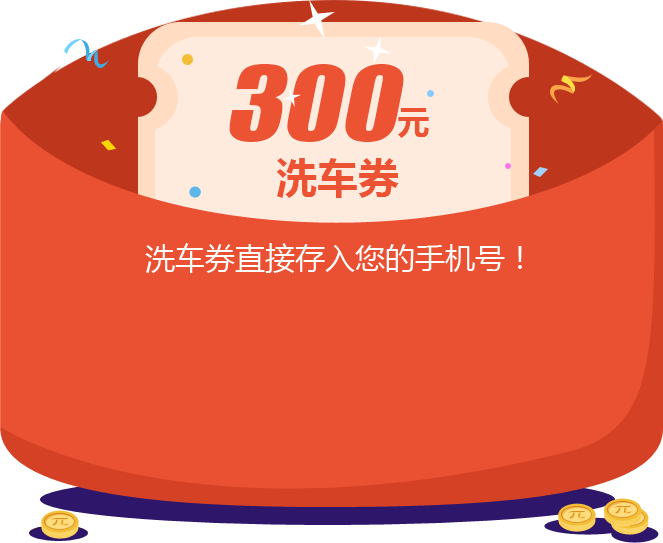
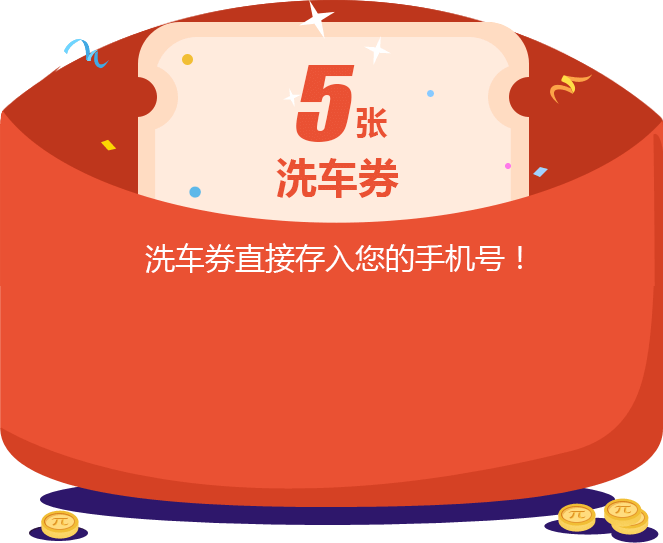
车点点文案修改

Changed region(s): [[0.3318, 0.1179, 0.6637, 0.2652], [0.9955, 0.2063, 1.0, 0.2357], [0.0603, 0.1179, 0.0905, 0.1473]]

diff --git a/activity/chediandian20161101/sass/index.scss b/activity/chediandian20161101/sass/index.scss
@@ -304,7 +304,6 @@ a {
                     margin: auto;
                     margin-top: pxToRem(66px);
                 }
-               
             }
             .md-footer {
                 width: 100%;
@@ -323,13 +322,38 @@ a {
             padding-bottom: pxToRem(26px);
             text-align: center;
             .label01 {
-                    font-size: pxToRem(20px);
-                    line-height: pxToRem(26px);
-                    text-align: center;
+                font-size: pxToRem(20px);
+                line-height: pxToRem(26px);
+                text-align: center;
             }
             .label02 {
                 margin-top: pxToRem(26px);
                 font-size: pxToRem(18px);
+            }
+        }
+    }
+    .ad-wrapper {
+        position: fixed;
+        bottom: 0;
+        left: 0;
+        z-index: 999;
+        .icon-close {
+            width: pxToRem(50px);
+            height: pxToRem(50px);
+            background-size: contain;
+            background-repeat: no-repeat;
+            background-image: url("../images/icon-close.png");
+            position: absolute;
+            right: pxToRem(30px);
+            top: pxToRem(-44px);
+            z-index: 99;
+
+        }
+        .ad {
+            width: 100%;
+            img {
+                width: 100%;
+                display: block;
             }
         }
     }

diff --git a/activity/chediandian20161101/html/index.html b/activity/chediandian20161101/html/index.html
@@ -92,7 +92,7 @@
 				<div class="md-footer"></div>
 			</div>
 			<div class="footer-label">
-				<div class="label01">完成首投即送最高120元洗车券<br/>详细领取流程请咨询团贷网:400-641-0888。</div>
+				<div class="label01">完成首投即送最高5张洗车券<br/>详细领取流程请咨询团贷网:400-641-0888。</div>
 				<div class="label02">投资有风险，入市需谨慎，最终收益以实际为准</div>
 			</div>
 		</div>
@@ -105,7 +105,15 @@
                <a href="//www.tuandai.com" class="toIndex rf">返回首页</a>
            </div>
 		</div>
+		<!-- 1218广告位 -->
+		<div class="ad-wrapper">
+			<div class="icon-close"></div>
+			<a class="ad" href="https://hd.tuandai.com/weixin/20161218YR/index.aspx">
+				<img src="../images/icon-ad1218.png" />
+			</a>
+		</div>
 	</div>
+
 </body>
 <script src="../js/fastclick-jquery.js" type="text/javascript" charset="utf-8"></script>
 <script type="text/javascript" charset="utf-8">
@@ -212,6 +220,11 @@
 		pageEl.on("click", ".get-message-code", function() {
 			console.log("获取手机短信验证码")
 		});
+		
+		// 点击1218广告关闭按钮
+		pageEl.on("click", ".icon-close", function() {
+			pageEl.find(".ad").hide();
+		})
 
 	// 检查手机号码正则
 	function checkPhoneNum(phoneNum) {

diff --git a/activity/chediandian20161101/sass/registeSuccess.scss b/activity/chediandian20161101/sass/registeSuccess.scss
@@ -494,6 +494,30 @@
                 }
             }
         }
+        .ad-wrapper {
+            position: fixed;
+            bottom: 0;
+            left: 0;
+            z-index: 999;
+            .icon-close {
+                width: pxToRem(50px);
+                height: pxToRem(50px);
+                background-size: contain;
+                background-repeat: no-repeat;
+                background-image: url("../images/icon-close.png");
+                position: absolute;
+                right: pxToRem(30px);
+                top: pxToRem(-44px);
+                z-index: 99;
+            }
+            .ad {
+                width: 100%;
+                img {
+                    width: 100%;
+                    display: block;
+                }
+            }
+        }
     }
     
     .toIndex {

diff --git a/activity/chediandian20161101/html/registeSuccess.html b/activity/chediandian20161101/html/registeSuccess.html
@@ -166,7 +166,25 @@
                <a href="//www.tuandai.com" class="toIndex rf">返回首页</a>
            </div>
 		</div>
+		<!-- 1218广告位 -->
+		<div class="ad-wrapper">
+			<div class="icon-close"></div>
+			<a class="ad" href="https://hd.tuandai.com/weixin/20161218YR/index.aspx">
+				<img src="../images/icon-ad1218.png" />
+			</a>
+		</div>
 	</div>
 </body>
 <script src="../js/fastclick-jquery.js" type="text/javascript" charset="utf-8"></script>
+<script type="text/javascript" charset="utf-8">
+(function() {
+    FastClick.attach(document.body);
+    var pageEl = $(".page");
+	// 点击1218广告关闭按钮
+	pageEl.on("click", ".icon-close", function() {
+		console.log(11);
+		pageEl.find(".ad").hide();
+	})
+})();
+</script>
 </html>
